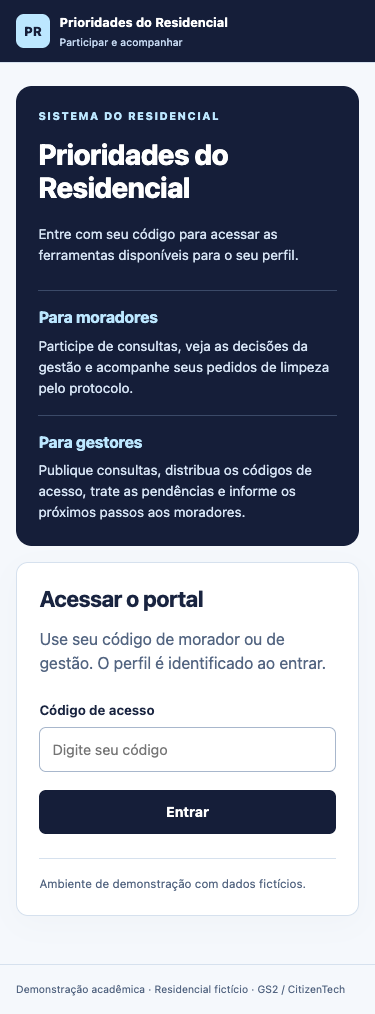
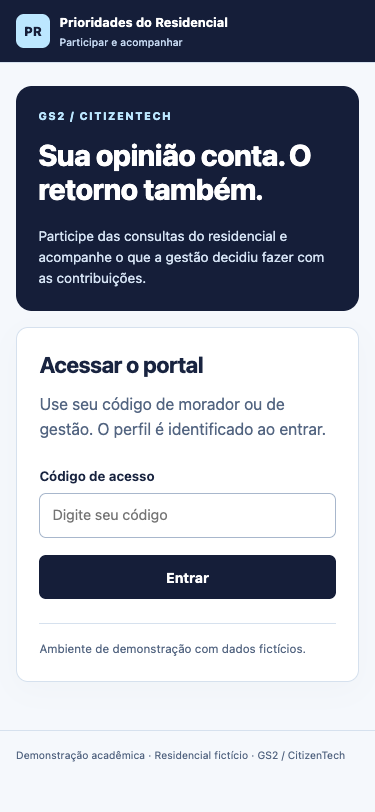
Restaura visual anterior do login mantendo os paineis do sistema

diff --git a/public/app.js b/public/app.js
@@ -115,15 +115,13 @@ function login() {
   document.querySelector('#residential-name').textContent = 'Participar e acompanhar';
   const layout = el('div', undefined, {class:'login-layout'});
   const intro = el('section', undefined, {class:'welcome'});
-  intro.append(el('p', 'SISTEMA DO RESIDENCIAL', {class:'eyebrow'}), el('h1', 'Prioridades do Residencial'),
-    el('p', 'Entre com seu código para acessar as ferramentas disponíveis para o seu perfil.'));
-  const guides=el('div',undefined,{class:'login-guides'});
-  for(const [title,text] of [
-    ['Para moradores','Participe de consultas, veja as decisões da gestão e acompanhe seus pedidos de limpeza pelo protocolo.'],
-    ['Para gestores','Publique consultas, distribua os códigos de acesso, trate as pendências e informe os próximos passos aos moradores.']]) {
-    const item=el('section');item.append(el('h2',title),el('p',text));guides.append(item);
+  intro.append(el('p', 'GS2 / CITIZENTECH', {class:'eyebrow'}), el('h1', 'Sua opinião conta. O retorno também.'),
+    el('p', 'Participe das consultas do residencial e acompanhe o que a gestão decidiu fazer com as contribuições.'));
+  const steps = el('ol', undefined, {class:'steps'});
+  for (const [title, text] of [['Consulte','Conheça a proposta.'],['Participe','Registre sua preferência.'],['Acompanhe','Veja o resultado e o retorno.']]) {
+    const item = el('li'); item.append(el('strong', title), el('span', text)); steps.append(item);
   }
-  intro.append(guides);
+  intro.append(steps);
   const box = panel('Acessar o portal', 2, 'login-card');
   box.append(el('p', 'Use seu código de morador ou de gestão. O perfil é identificado ao entrar.', {class:'quiet'}));
   const form = el('form');

diff --git a/public/style.css b/public/style.css
@@ -338,11 +338,6 @@ body.app-shell { padding-left:252px; background:#f4f7fb; }
 .home-update-row h3 { font-size:.92rem; margin:0 0 .5rem; }
 .home-update-row p { font-size:.78rem; margin:0; }
 .home-update-row>a { flex-shrink:0; }
-.login-guides { display:grid; gap:1rem; margin-top:1.5rem; }
-.login-guides section { border-top:1px solid #3b4a68; padding-top:1rem; }
-.login-guides h2 { font-size:1rem; color:var(--baby); margin:0 0 .5rem; }
-.login-guides p { color:#d4e2f3; font-size:.85rem; margin:0; }
-.welcome h1 { font-size:clamp(1.8rem,3vw,2.2rem); }
 @media(max-width:760px) {
   .guide-grid { grid-template-columns:1fr; }
   .home-update-row { flex-direction:column; align-items:start; }

diff --git a/README.md b/README.md
@@ -33,7 +33,7 @@ A versão atual está na branch local **`interface-sistema`**, baseada em `paine
 
 - **Morador:** entra em **Início**, com resumo da residência, consultas abertas e o guia **Como usar o sistema**. O menu contém Início, Consultas, Acompanhamento, Minhas solicitações e Regras e contatos. O guia explica como votar, consultar decisões, pedir a limpeza da academia e encontrar documentos/canais, com atalhos reais para essas telas. O botão **Como usar o sistema**, no rodapé do menu, retorna às orientações.
 - **Gestor:** entra em **Visão geral**, com indicadores, pendências e um guia permanente sobre criar consultas, convidar moradores e publicar o retorno. O menu mantém Visão geral, Consultas, Devolutivas, Convites e Fila de limpeza. O tour continua disponível em **Como usar o painel**.
-- **Entrada no sistema:** explica separadamente o que moradores e gestores podem fazer. O código identifica o perfil; não há seleção de permissão no navegador.
+- **Entrada no sistema:** mantém o visual anterior, com “Sua opinião conta. O retorno também.” e os passos Consulte, Participe e Acompanhe. As novas orientações por perfil aparecem depois de entrar.
 
 Para abrir esta versão no Mac:
 
